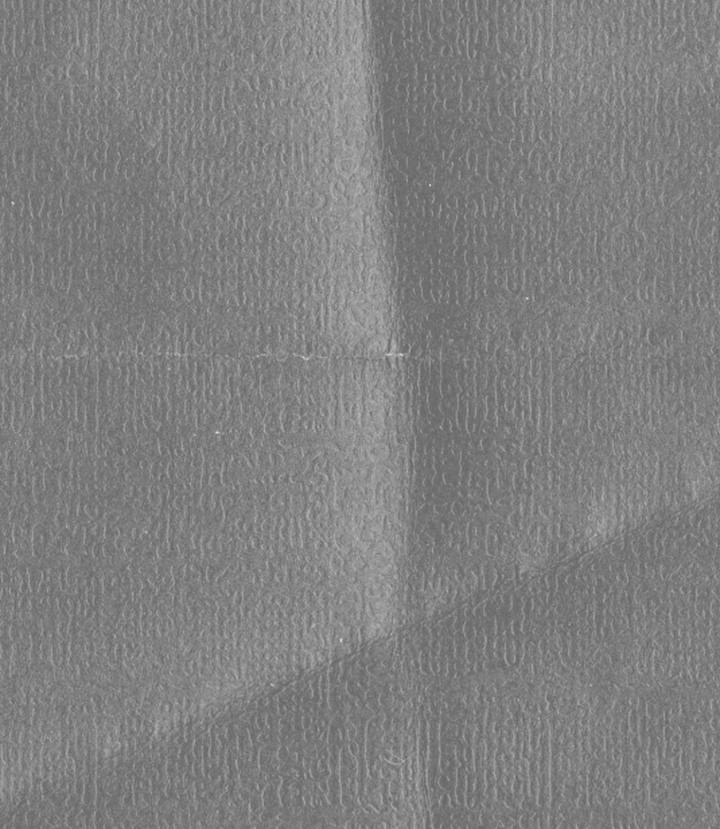
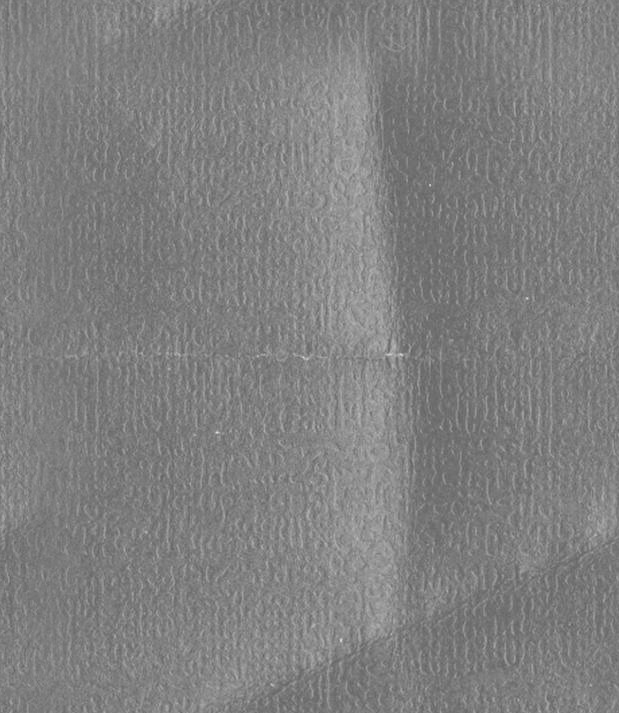
auto: deploy 2 file(s) (saf-rebrand.css, saf-paper-crumple.jpg) — 2026-08-27 17:12

diff --git a/assets/saf-rebrand.css b/assets/saf-rebrand.css
@@ -231,6 +231,13 @@
    and flattened to neutral grey, so ONE texture tints to any brand colour
    through the blend. Put .rb-paper on the element and set its background
    colour as usual; --rb-paper-strength dials the texture back per section.
+
+   The sheet is drawn at its NATIVE size and repeated — never `cover`. The
+   crumple was lifted off a 1920-wide comp, so one texture pixel is one CSS
+   pixel and the grain matches Hanre's frames exactly. `cover` blew it up
+   2.7x on a full-bleed band (and threw away ~70% of the sheet), which is
+   what made every panel read as a zoomed-in photo of paper. The tile is
+   wrap-blended so the repeat has no visible seam.
    -------------------------------------------------------------------------- */
 .rb-paper {
   position: relative;
@@ -244,7 +251,8 @@
   inset: 0;
   z-index: -1;
   background-image: var(--rb-paper-src);
-  background-size: cover;
+  background-size: auto;
+  background-repeat: repeat;
   background-position: center;
   mix-blend-mode: soft-light;
   opacity: var(--rb-paper-strength, 1);
